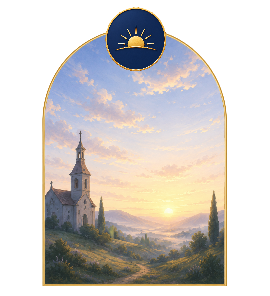
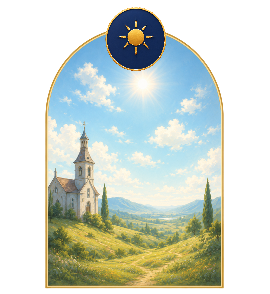
Saving

diff --git a/src/screens/MenuScreen.tsx b/src/screens/MenuScreen.tsx
@@ -13,6 +13,7 @@ import { getGlobalCount, startPrayer } from "../api/prayerApi";
 import { supabase } from "../lib/supabaseClient";
 import AppHeader from "../../components/Header";
 import { AngelusMode, getAngelusMode } from "../services/notificationService";
+import { useFonts } from "expo-font";
 
 type Props = {
   onLogout: () => void;
@@ -56,11 +57,9 @@ const slotToKey = (slot: string): "morning" | "noon" | "evening" | null => {
   return null;
 };
 
-function getWeekMonday(now: Date): Date {
+function getWeekSunday(now: Date): Date {
   const d = new Date(now);
-  const day = d.getDay();
-  const diff = (day + 6) % 7;
-  d.setDate(d.getDate() - diff);
+  d.setDate(d.getDate() - d.getDay());
   d.setHours(0, 0, 0, 0);
   return d;
 }
@@ -134,6 +133,14 @@ function formatDayOfWeek(d: Date): string {
 // ──────────────────────────────────────────────────────────────────────────────
 
 export default function MenuScreen({ onLogout }: Props) {
+  const [fontsLoaded] = useFonts({
+    CormorantGaramond: require("../../assets/fonts/CormorantGaramond.ttf"),
+    EBGaramond_Medium: require("../../assets/fonts/EBGaramond-Medium.ttf"),
+  });
+
+  if (!fontsLoaded) {
+    return null;
+  }
   const [count, setCount] = useState(0);
   const [userId, setUserId] = useState("");
   const [completedPrayers, setCompletedPrayers] = useState({
@@ -190,19 +197,19 @@ export default function MenuScreen({ onLogout }: Props) {
         setCompletedPrayers(updated);
       }
 
-      const monday = getWeekMonday(nowSnap);
-      const sunday = new Date(monday);
-      sunday.setDate(monday.getDate() + 6);
-      sunday.setHours(23, 59, 59, 999);
+      const weekStart = getWeekSunday(nowSnap);
+
+      const weekEnd = new Date(weekStart);
+      weekEnd.setDate(weekStart.getDate() + 6);
+      weekEnd.setHours(23, 59, 59, 999);
 
       const { data: weekSessions } = await supabase
         .from("PrayerSessions")
         .select("Slot, Completed, ScheduledTime")
         .eq("UserId", uid)
         .eq("Completed", true)
-        .gte("ScheduledTime", monday.toISOString())
-        .lte("ScheduledTime", sunday.toISOString());
-
+        .gte("ScheduledTime", weekStart.toISOString())
+        .lte("ScheduledTime", weekEnd.toISOString());
       if (weekSessions) {
         const morningDays = new Set<string>();
         const noonDays = new Set<string>();
@@ -331,21 +338,22 @@ export default function MenuScreen({ onLogout }: Props) {
           ? "Missed"
           : "Awaiting";
 
-  const monday = getWeekMonday(now);
+  const weekStart = getWeekSunday(now);
 
   const morningDots: DotStatus[] = Array.from({ length: 7 }, (_, i) =>
-    getDotStatus(i, 6, monday, now, weekMorning),
+    getDotStatus(i, 6, weekStart, now, weekMorning),
   );
   const noonDots: DotStatus[] = Array.from({ length: 7 }, (_, i) =>
-    getDotStatus(i, 12, monday, now, weekNoon),
+    getDotStatus(i, 6, weekStart, now, weekNoon),
   );
   const eveningDots: DotStatus[] = Array.from({ length: 7 }, (_, i) =>
-    getDotStatus(i, 18, monday, now, weekEvening),
+    getDotStatus(i, 6, weekStart, now, weekEvening),
   );
 
   const morningCount = morningDots.filter((d) => d === "completed").length;
   const noonCount = noonDots.filter((d) => d === "completed").length;
   const eveningCount = eveningDots.filter((d) => d === "completed").length;
+  const todayColIndex = now.getDay();
 
   return (
     <SafeAreaView style={styles.container}>
@@ -449,13 +457,28 @@ export default function MenuScreen({ onLogout }: Props) {
           <View style={styles.weekDayHeader}>
             <View style={styles.weekIconPlaceholder} />
             <View style={styles.weekLabelPlaceholder} />
+
             <View style={styles.weekDayLabels}>
-              {["M", "T", "W", "T", "F", "S", "S"].map((d, i) => (
-                <Text key={i} style={styles.weekDayLabel}>
-                  {d}
-                </Text>
+              {["S", "M", "T", "W", "T", "F", "S"].map((d, i) => (
+                <View
+                  key={i}
+                  style={[
+                    styles.weekDayLabelWrap,
+                    i === todayColIndex && styles.weekDayLabelWrapToday,
+                  ]}
+                >
+                  <Text
+                    style={[
+                      styles.weekDayLabel,
+                      i === todayColIndex && styles.weekDayLabelToday,
+                    ]}
+                  >
+                    {d}
+                  </Text>
+                </View>
               ))}
             </View>
+
             <View style={styles.weekCountPlaceholder} />
           </View>
 
@@ -591,19 +614,20 @@ function WeekRow({
       <Text style={styles.weekLabel}>{label}</Text>
       <View style={styles.dotsRow}>
         {dots.map((status, i) => (
-          <View
-            key={i}
-            style={[
-              styles.dot,
-              disabled
-                ? { backgroundColor: "#D9D9D9" }
-                : status === "completed"
-                  ? styles.dotFilled
-                  : status === "missed"
-                    ? styles.dotMissed
-                    : styles.dotEmpty,
-            ]}
-          />
+          <View key={i} style={styles.dotWrap}>
+            <View
+              style={[
+                styles.dot,
+                disabled
+                  ? { backgroundColor: "#D9D9D9" }
+                  : status === "completed"
+                    ? styles.dotFilled
+                    : status === "missed"
+                      ? styles.dotMissed
+                      : styles.dotEmpty,
+              ]}
+            />
+          </View>
         ))}
       </View>
       <Text style={styles.weekCount}>{disabled ? "—" : `${count}/7`}</Text>
@@ -660,7 +684,7 @@ const styles = StyleSheet.create({
   dateTimeDate: {
     fontSize: 13,
     color: COLORS.navy,
-    fontFamily: "EBGaramond-Medium",
+    fontFamily: "EBGaramond_Medium",
     fontWeight: "600",
     flexShrink: 1,
   },
@@ -672,7 +696,7 @@ const styles = StyleSheet.create({
   dateTimeDay: {
     fontSize: 13,
     color: COLORS.navy,
-    fontFamily: "EBGaramond-Medium",
+    fontFamily: "EBGaramond_Medium",
     fontWeight: "500",
     flexShrink: 0,
   },
@@ -694,7 +718,7 @@ const styles = StyleSheet.create({
   heroTitle: {
     fontSize: 32,
     color: COLORS.navy,
-    fontFamily: "EBGaramond-Medium",
+    fontFamily: "EBGaramond_Medium",
     fontWeight: "600",
     textAlign: "center",
   },
@@ -724,7 +748,7 @@ const styles = StyleSheet.create({
   sectionCardTitle: {
     fontSize: 22,
     color: COLORS.gold,
-    fontFamily: "EBGaramond-Medium",
+    fontFamily: "EBGaramond_Medium",
     fontWeight: "600",
     textAlign: "center",
     marginBottom: 8,
@@ -755,7 +779,7 @@ const styles = StyleSheet.create({
   angelusTitle: {
     fontSize: 18,
     color: COLORS.textPrimary,
-    fontFamily: "EBGaramond-Medium",
+    fontFamily: "EBGaramond_Medium",
     fontWeight: "600",
   },
   angelusSubtitle: {
@@ -774,18 +798,34 @@ const styles = StyleSheet.create({
   weekIconPlaceholder: { width: 40, marginRight: 10 },
   weekLabelPlaceholder: { width: 64 },
   weekDayLabels: {
-    marginLeft: 10,
     flex: 1,
     flexDirection: "row",
-    justifyContent: "space-between",
+  },
+
+  weekDayLabelWrap: {
+    flex: 1,
     alignItems: "center",
   },
+
+  weekDayLabelWrapToday: {
+    backgroundColor: COLORS.gold,
+    borderRadius: 99,
+    width: 14,
+    height: 14,
+    justifyContent: "center",
+    alignItems: "center",
+  },
+
   weekDayLabel: {
-    width: 10,
     fontSize: 10,
     color: COLORS.muted,
     fontFamily: "CormorantGaramond",
     textAlign: "center",
+  },
+
+  weekDayLabelToday: {
+    color: "#FFF",
+    fontWeight: "700",
   },
   weekCountPlaceholder: { width: 30, marginLeft: 8 },
 
@@ -795,14 +835,17 @@ const styles = StyleSheet.create({
     width: 64,
     fontSize: 16,
     color: COLORS.textPrimary,
-    fontFamily: "EBGaramond-Medium",
+    fontFamily: "EBGaramond_Medium",
   },
   dotsRow: {
-    marginLeft: 10,
     flex: 1,
     flexDirection: "row",
-    justifyContent: "space-between",
+  },
+
+  dotWrap: {
+    flex: 1,
     alignItems: "center",
+    justifyContent: "center",
   },
   dot: { width: 10, height: 10, borderRadius: 5 },
   dotFilled: { backgroundColor: COLORS.gold },
@@ -856,7 +899,7 @@ const styles = StyleSheet.create({
   statsCaption: {
     fontSize: 13,
     color: COLORS.textSecondary,
-    fontFamily: "EBGaramond-Medium",
+    fontFamily: "EBGaramond_Medium",
     marginTop: 4,
   },
 
